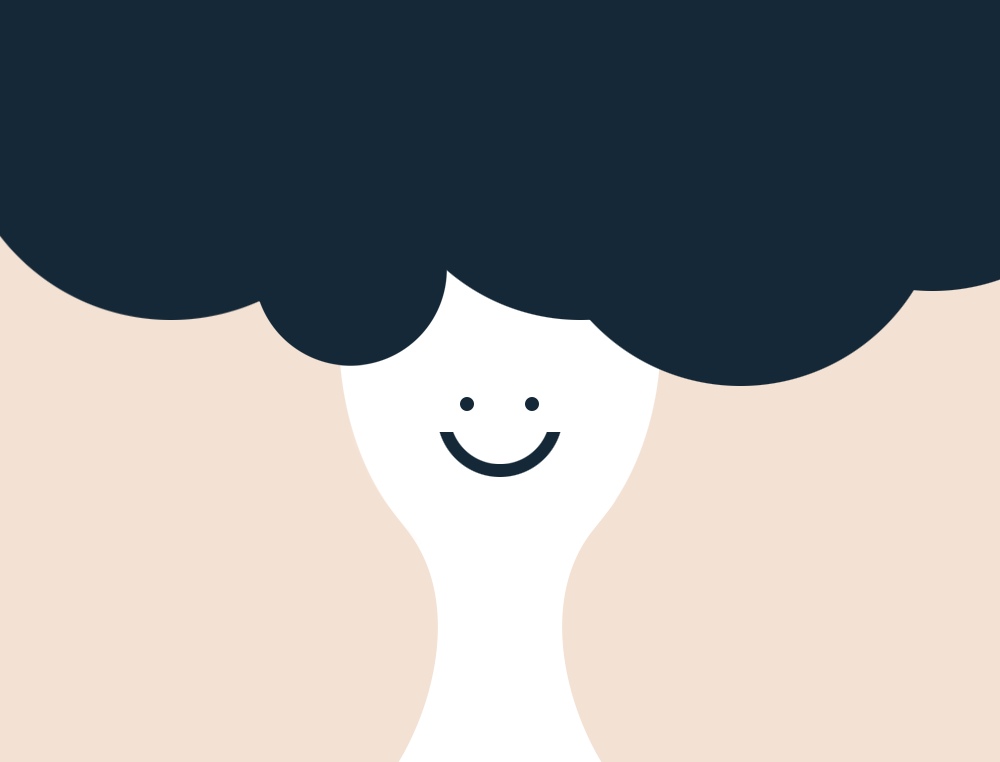
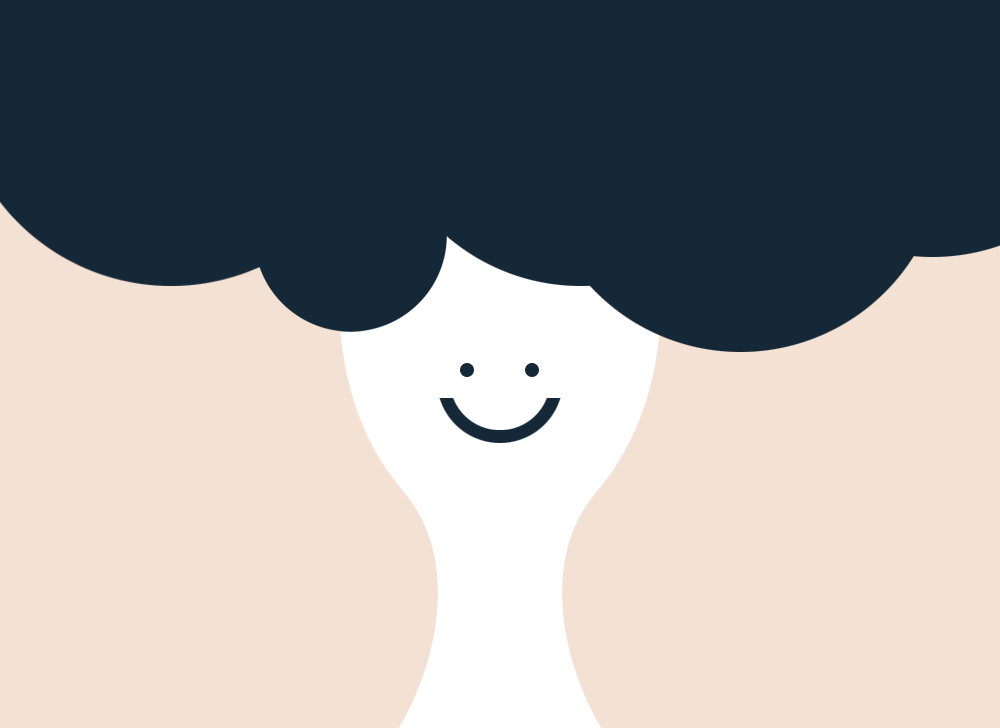
메인이미지 및 스타일 수정

diff --git a/_includes/css/main.css b/_includes/css/main.css
@@ -97,7 +97,7 @@ header .container {
 
 header img {
     display: block;
-    margin: 0 auto 20px;
+    margin: 0;
 }
 
 header .intro-text .name {
@@ -115,7 +115,7 @@ header .intro-text .skills {
 
 @media(min-width:768px) {
     header .container {
-        padding-top: 150px;
+        padding-top: 100px;
         padding-bottom: 100px;
     }
 
@@ -521,6 +521,7 @@ footer .footer-below {
 	margin: auto;
 	max-width: 1000px;
 	width: 100%;
+	padding:0;
 }
 
 .face img {
